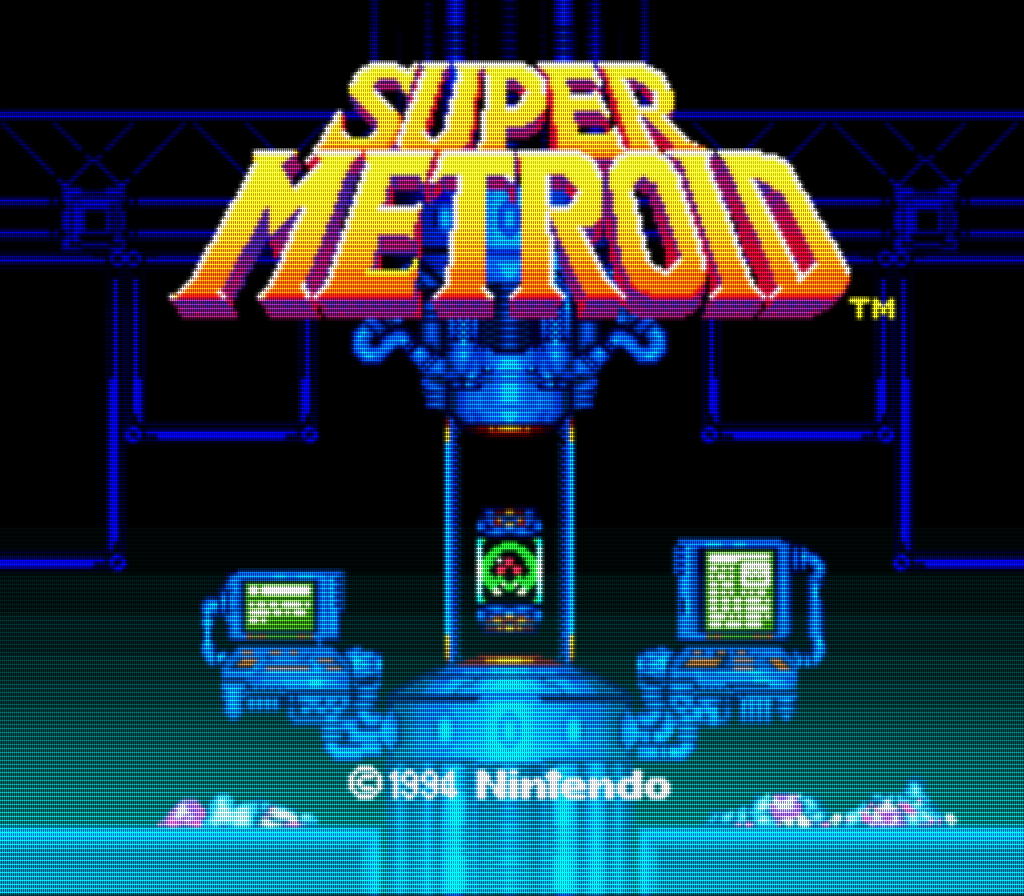
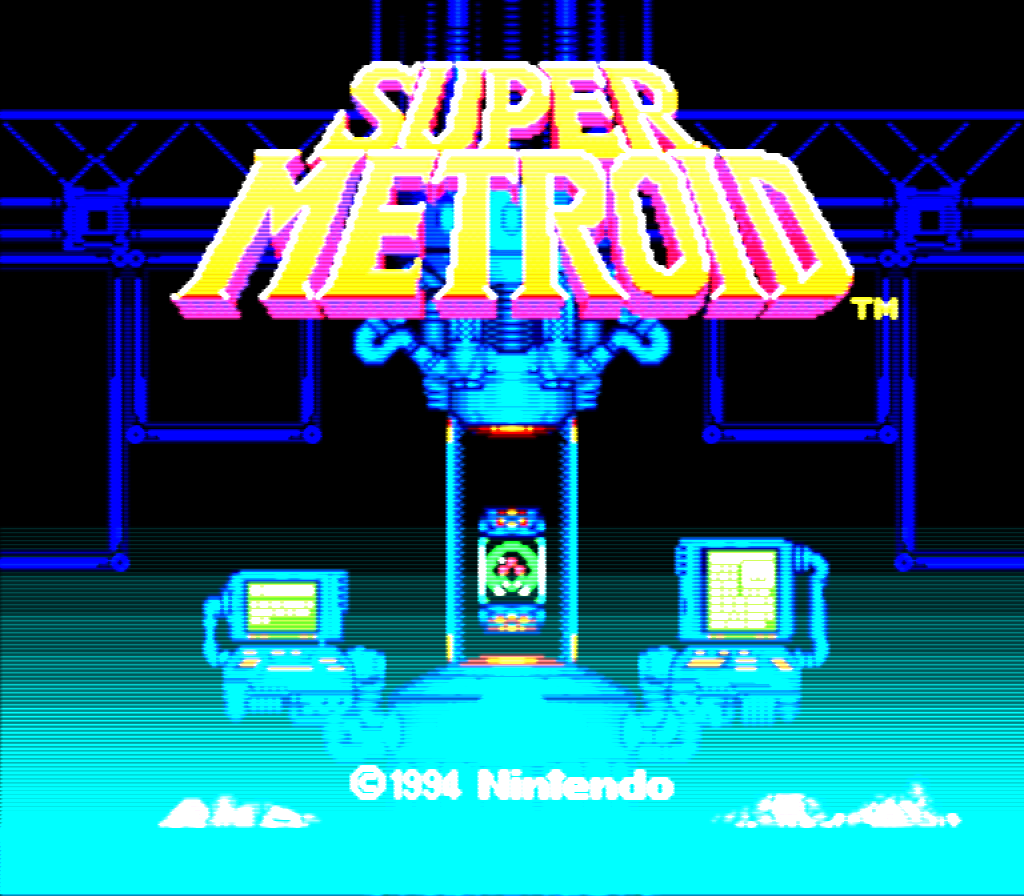
experiments

diff --git a/main.py b/main.py
@@ -4,9 +4,11 @@ from PIL import Image
 import numpy as np
 from matplotlib import pyplot as plt
 import os
+import math
 import re
 from time import sleep
 from tqdm.auto import tqdm
+from playsound3 import playsound
 
 # Grab suitable images from gifs
 # for image_path in os.listdir('assets\gif'):
@@ -63,7 +65,8 @@ def overlayImages(img1,img2,weight1):
 def save_img(folder_path, img_name, img):
     if not os.path.exists(folder_path):
         os.makedirs(folder_path)
-    cv2.imwrite(folder_path+'/'+img_name, img)
+    cv2.imwrite(folder_path+"/"+img_name, img)
+    print("image saved at '"+folder_path+"/"+img_name+".png'")
 
 def get_img_size(img):
     return img.shape[:2] # height, width
@@ -163,40 +166,38 @@ def apply_crt_filter(filepath, scale = 1, blur=True, scanlines=True):
     # Save output
     save_img('output/crt',filename+'.png',img_crt)
 
-def overlay_pixel(img1,y1,x1,img2,y2,x2,scale=1):
+def overlay_pixel(img1,y1,x1,img2,y2,x2,xoff=0,yoff=0,divisor=1):
+    # gaussian = (math.e**(-(xoff**2+yoff**2)/(2*(sigma**2))))/(2*math.pi*(sigma**2))
+    y1 += yoff
+    x1 += xoff
     try:
-        img1[y1,x1] = min(255,img2[y2,x2]/scale+img1[y1,x1])
+        # img1[y1,x1] = min(255,img2[y2,x2]*gaussian+img1[y1,x1])
+        img1[y1,x1] = min(255,img2[y2,x2]/divisor+img1[y1,x1])
     except:
         pass
 
 def project_img(img, scale, channels=3, loadingbar_colour="white"):
     height,width = get_img_size(img)
     projection = np.zeros((height*scale,width*scale, channels), dtype=np.uint8)
-    sigma_y = 2
-    sigma_x = 3
-    sigma_a = 1
+    mod_x = 2 # 2
+    mod_y = 3 # 3x
+    mod_a = 2
     for h in tqdm(range(height),colour=loadingbar_colour,ascii=True):
-        for w in range(width):
-            overlay_pixel(projection,h*scale,w*scale-scale//2,img,h,w)
-            # LOOP FROM 0-(SCALE-1) FOR THIS AND BELOW
-            overlay_pixel(projection,h*scale,w*scale,img,h,w)
-
-            for x in range(0,scale+1):
-                for y in range(0,scale+1):
-                    if x==0 and y==0: continue
-                    overlay_pixel(projection,h*scale+y,w*scale-scale//2+x,img,h,w,x*sigma_x+y*sigma_y+sigma_a)
-                    overlay_pixel(projection,h*scale-y,w*scale-scale//2+x,img,h,w,x*sigma_x+y*sigma_y+sigma_a)
-                    overlay_pixel(projection,h*scale+y,w*scale-scale//2-x,img,h,w,x*sigma_x+y*sigma_y+sigma_a)
-                    overlay_pixel(projection,h*scale-y,w*scale-scale//2-x,img,h,w,x*sigma_x+y*sigma_y+sigma_a)
-
-                    overlay_pixel(projection,h*scale+y,w*scale+x,img,h,w,x*sigma_x+y*sigma_y+sigma_a)
-                    overlay_pixel(projection,h*scale-y,w*scale+x,img,h,w,x*sigma_x+y*sigma_y+sigma_a)
-                    overlay_pixel(projection,h*scale+y,w*scale-x,img,h,w,x*sigma_x+y*sigma_y+sigma_a)
-                    overlay_pixel(projection,h*scale-y,w*scale-x,img,h,w,x*sigma_x+y*sigma_y+sigma_a)
+        for w in range(width*scale):
+            for each in range(scale//2):
+                overlay_pixel(projection,h*scale+each,w,img,h,w//scale)
+                for x in range(0,scale): # FIXME: Get this part to not overlap
+                    for y in range(0,scale):
+                        if x==0 and y==0: continue
+                        overlay_pixel(projection,h*scale,w,img,h,w//scale, x, y,x*mod_x+y*mod_y+mod_a)
+                        overlay_pixel(projection,h*scale,w,img,h,w//scale, x,-y,x*mod_x+y*mod_y+mod_a)
+                        overlay_pixel(projection,h*scale,w,img,h,w//scale,-x, y,x*mod_x+y*mod_y+mod_a)
+                        overlay_pixel(projection,h*scale,w,img,h,w//scale,-x,-y,x*mod_x+y*mod_y+mod_a)
     return projection
 
-def apply_crt_filter2(filepath):
-    filename = re.sub(r'(^.*/)|(\..*)', '', filepath)
+def apply_crt_filter2(filepath,filename=None):
+    if filename == None:
+        filename = re.sub(r'(^.*/)|(\..*)', '', filepath)
     img = cv2.imread(filepath)
     img_original = img.copy()
     height,width = get_img_size(img)
@@ -204,16 +205,18 @@ def apply_crt_filter2(filepath):
     img = cv2.resize(img, (width_new,height_new), interpolation=cv2.INTER_NEAREST)
     blue,green,red = cv2.split(img)
 
+    scale = 4
     print("starting projection...")
-    proj_blue = project_img(blue,4,1,"blue")
+    proj_blue = project_img(blue,scale,1,"blue")
     print("projected blue!")
-    proj_green = project_img(green,4,1,"green")
+    proj_green = project_img(green,scale,1,"green")
     print("projected green!")
-    proj_red = project_img(red,4,1,"red")
+    proj_red = project_img(red,scale,1,"red")
     print("projected red!")
     img_crt = cv2.merge([proj_blue,proj_green,proj_red])
 
     save_img('output/crt',filename+'.png',img_crt)
+    playsound('sounds/yougotmail.mp3')
 
 
 
@@ -224,7 +227,7 @@ def apply_crt_filter2(filepath):
 # apply_crt_filter('assets/png/sonic2.png')
 # apply_crt_filter('assets/png/celeste.png',6)
 # apply_crt_filter('assets/png/super_metroid.png')
-apply_crt_filter2('assets/png/super_metroid.png')
+apply_crt_filter2('assets/png/super_metroid.png','super_metroid')
 
 
 # sqr_size = 5
